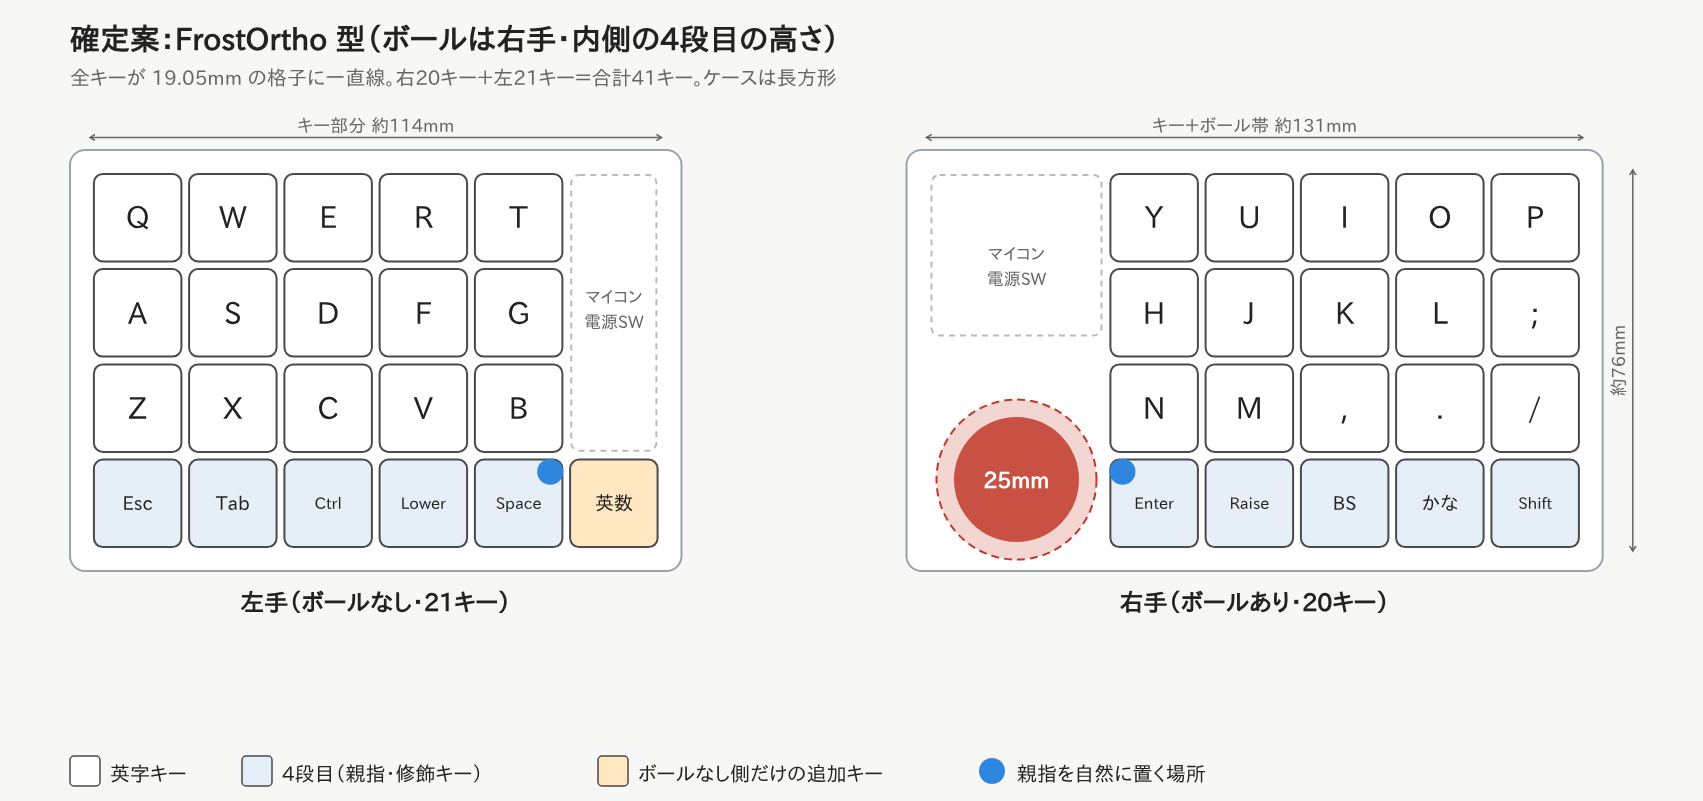
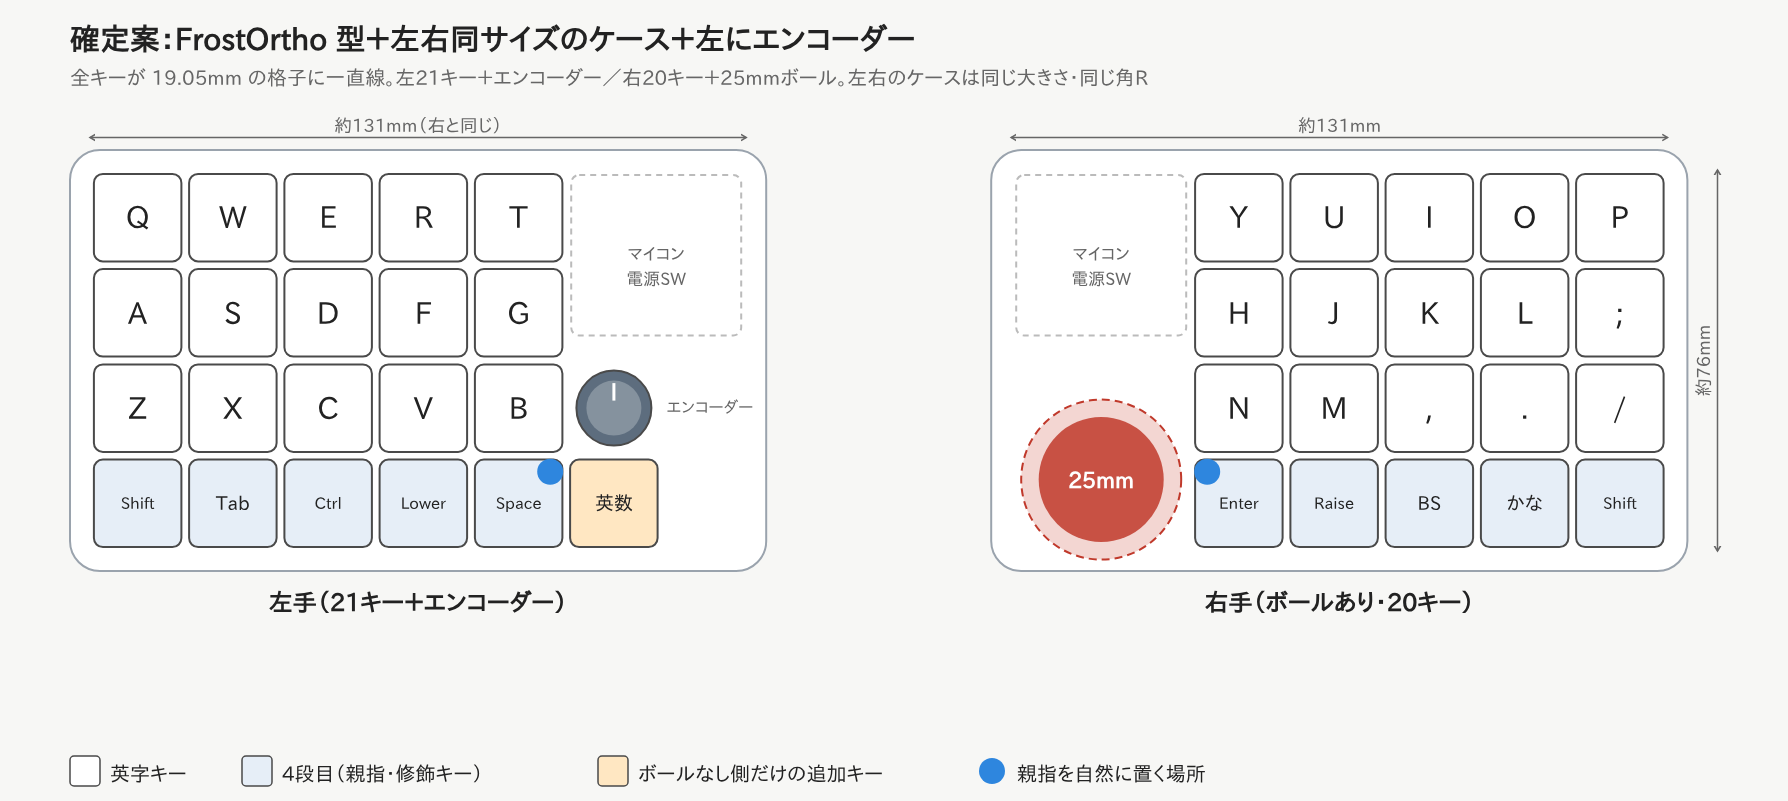
Add left rotary encoder and make both cases the same size
- EC11 encoder on the left half (A=D0, B=D1, push switch at ROW2/COL5).
  Turning controls volume (page up/down on Lower, brightness on Raise),
  pressing mutes.
- Both halves now share the same outer size and corner radius; the left
  inner strip holds the controller, encoder and the extra key.
- Update layout image and README, including the design policy.

Claude-Session: https://claude.ai/code/session_017zNm7dMSTHELcztuNr6aNy

diff --git a/tools/draw_layout.py b/tools/draw_layout.py
@@ -194,25 +194,24 @@ def plan_final():
     STRIP = 36.0          # ボール帯の幅 (受け皿約34mm + 余裕)
     WALL = 4.0            # ケースの縁 (目安)
     title_h = 30
-    lw = 6 * U
     rw = STRIP + 5 * U
+    lw = rw               # 左右のケースを同じ大きさにする
     w = MARGIN*2 + lw + GAP + rw + 2*WALL + 14
     h = title_h + 4*U + 2*WALL + 46
     svg = Svg(mm(w), mm(h))
-    svg.text(MARGIN, 10, "確定案：FrostOrtho 型（ボールは右手・内側の4段目の高さ）", 30, weight="bold")
-    svg.text(MARGIN, 17, "全キーが 19.05mm の格子に一直線。右20キー＋左21キー＝合計41キー。ケースは長方形", 20, color=C["sub"])
+    svg.text(MARGIN, 10, "確定案：FrostOrtho 型＋左右同サイズのケース＋左にエンコーダー", 30, weight="bold")
+    svg.text(MARGIN, 17, "全キーが 19.05mm の格子に一直線。左21キー＋エンコーダー／右20キー＋25mmボール。左右のケースは同じ大きさ・同じ角R", 20, color=C["sub"])
     oy = title_h + WALL
     lx = MARGIN + WALL
-    # ケース外形 (目安)
     def case(x, y, cw, ch):
         svg.add(f'<rect x="{mm(x-WALL):.1f}" y="{mm(y-WALL):.1f}" width="{mm(cw+2*WALL):.1f}" '
-                f'height="{mm(ch+2*WALL):.1f}" rx="{mm(3):.1f}" fill="#ffffff" stroke="#9aa3ad" stroke-width="2"/>')
+                f'height="{mm(ch+2*WALL):.1f}" rx="{mm(6):.1f}" fill="#ffffff" stroke="#9aa3ad" stroke-width="2"/>')
     case(lx, oy, lw, 4*U)
     rx = lx + lw + WALL + GAP + WALL
     case(rx, oy, rw, 4*U)
 
-    # 左手
-    LROW4 = ["Esc", "Tab", "Ctrl", "Lower", "Space"]
+    # 左手: 5x4 + 内側の帯 (4段目に英数キー、その上にエンコーダー、上部にマイコン)
+    LROW4 = ["Shift", "Tab", "Ctrl", "Lower", "Space"]
     for r in range(3):
         for c in range(5):
             svg.key(lx + c*U, oy + r*U, LEFT_ALPHA[r][c], C["alpha"])
@@ -220,11 +219,15 @@ def plan_final():
         svg.key(lx + c*U, oy + 3*U, LROW4[c], C["mod"])
     svg.key(lx + 5*U, oy + 3*U, "英数", C["extra"])
     svg.thumb(lx + 4*U, oy + 3*U)
-    # 左の内側帯: マイコン・電源スイッチ置き場
-    svg.add(f'<rect x="{mm(lx+5*U+1):.1f}" y="{mm(oy+1):.1f}" width="{mm(U-2):.1f}" height="{mm(3*U-2):.1f}" rx="8" '
+    ex, ey = lx + 5.5*U, oy + 2.5*U
+    svg.add(f'<circle cx="{mm(ex):.1f}" cy="{mm(ey):.1f}" r="{mm(7.5):.1f}" fill="#5d6d7e" stroke="{C["stroke"]}" stroke-width="2"/>')
+    svg.add(f'<circle cx="{mm(ex):.1f}" cy="{mm(ey):.1f}" r="{mm(5.5):.1f}" fill="#85929e"/>')
+    svg.add(f'<line x1="{mm(ex):.1f}" y1="{mm(ey-5):.1f}" x2="{mm(ex):.1f}" y2="{mm(ey-1.5):.1f}" stroke="#fff" stroke-width="3"/>')
+    svg.text(lx + 6*U + 1, ey + 1, "エンコーダー", 16, "start", C["sub"])
+    svg.add(f'<rect x="{mm(lx+5*U+1):.1f}" y="{mm(oy+1):.1f}" width="{mm(STRIP-2):.1f}" height="{mm(2*U-6):.1f}" rx="8" '
             f'fill="none" stroke="{C["empty"]}" stroke-width="2" stroke-dasharray="6 5"/>')
-    svg.text(lx + 5.5*U, oy + 1.4*U, "マイコン", 17, "middle", C["sub"])
-    svg.text(lx + 5.5*U, oy + 1.4*U + 5, "電源SW", 17, "middle", C["sub"])
+    svg.text(lx + 5*U + STRIP/2, oy + U - 1, "マイコン", 17, "middle", C["sub"])
+    svg.text(lx + 5*U + STRIP/2, oy + U + 4, "電源SW", 17, "middle", C["sub"])
 
     # 右手: 内側にボール帯
     gx = rx + STRIP
@@ -241,10 +244,10 @@ def plan_final():
     svg.text(rx + STRIP/2, oy + U + 4, "電源SW", 17, "middle", C["sub"])
     svg.ball(rx + STRIP/2, oy + 3.25*U)
 
-    svg.text(lx + 3*U, oy + 4*U + WALL + 8, "左手（ボールなし・21キー）", 24, "middle", weight="bold")
+    svg.text(lx + lw/2, oy + 4*U + WALL + 8, "左手（21キー＋エンコーダー）", 24, "middle", weight="bold")
     svg.text(rx + rw/2, oy + 4*U + WALL + 8, "右手（ボールあり・20キー）", 24, "middle", weight="bold")
-    svg.dim_h(lx, lx + lw, oy - WALL - 2.5, "キー部分 約114mm")
-    svg.dim_h(rx, rx + rw, oy - WALL - 2.5, "キー＋ボール帯 約131mm")
+    svg.dim_h(lx, lx + lw, oy - WALL - 2.5, "約131mm（右と同じ）")
+    svg.dim_h(rx, rx + rw, oy - WALL - 2.5, "約131mm")
     svg.dim_v(rx + rw + WALL + 6, oy, oy + 4*U, "約76mm")
     legend(svg, MARGIN, h - 9)
     return svg.render()

diff --git a/README.md b/README.md
@@ -34,14 +34,22 @@
 | 項目 | 内容 |
 | --- | --- |
 | 配列 | オーソリニア。片手 5列 × 4段、左手だけ4段目の内側に1キー追加 → **合計41キー**（左21・右20） |
+| エンコーダー | **左手**の内側（英数キーの上）。回す＋押し込みスイッチ付き。ロープロファイル（薄型）推奨 |
 | キー間隔 | 19.05mm（MX と同じ） |
 | スイッチ | **MX / Choc（ロープロファイル）両対応・ソケット式** |
 | トラックボール | **右手に固定**。25mm ボール、センサー PMW3610。右手の内側、4段目の高さ（FrostOrtho と同じ考え方） |
 | ボールケース | 専用ケース。**ベアリング3個で支える方式**、PMW3610 基板は**ケースの底面**に上向きで置く |
-| 基板・ケース | 左右別々に作る |
+| 基板・ケース | 左右別々に作る。**ケースは左右同じ大きさ・同じ角の丸み**（約131 × 76mm ＋ 縁） |
 | 接続 | 左右とも完全無線（Bluetooth）。PC とは**右手側**がつながる |
 | マイコン | ProMicro nRF52840 互換（nice!nano v2 など） × 2 |
 | 電源 | リチウムポリマー電池（左右に1個ずつ） |
+
+### デザインの方針（DRESSTHING を参考に）
+
+- **左右を同じ大きさ・同じ角の丸みの長方形**にして、並べたときに1つの道具に見えるようにする
+- 内側の帯は左右で対になる：右は「マイコン＋ボール」、左は「マイコン＋エンコーダー＋英数キー」
+- **ケースとプレートは着せ替えできる作り**にする（MX用/Choc用プレートの交換、色違いケースなど）
+- 飾りは足さず、面取り・角の丸み・素材の色で整える
 
 ### トラックボールケースのイメージ
 
@@ -103,8 +111,17 @@
 
 右手側は列の並びが左右反転していて、5列だけ使います（内側から D14, D15, D18, D19, D20。D21 は使わない）。
 
-- 左手：5列 × 4段 ＋ 4段目の内側に1キー（COL5 × ROW3）＝ 21キー
+- 左手：5列 × 4段 ＋ 4段目の内側に1キー（COL5 × ROW3）＝ 21キー ＋ エンコーダー押し込み（COL5 × ROW2）
 - 右手：5列 × 4段 ＝ 20キー
+
+### ロータリーエンコーダー（左手のみ）
+
+| エンコーダー側 | ProMicro 側 | 備考 |
+| --- | --- | --- |
+| A | D0 | |
+| B | D1 | |
+| C（共通） | GND | |
+| 押し込みスイッチ | ROW2 × COL5 | 普通のキーと同じくダイオードを付けてマトリックスにつなぐ |
 
 ### トラックボールセンサー PMW3610（右手のみ）
 
@@ -155,7 +172,8 @@ zisaku/
     ├── Kconfig.shield                … シールド名の登録
     ├── Kconfig.defconfig             … 右手がセントラル、分割、トラックボール有効 など
     ├── kataware.dtsi                 … 左右共通：マトリックス、行ピン
-    ├── kataware_left.overlay         … 左手：列ピン
+    ├── kataware_left.overlay         … 左手：列ピン、エンコーダー有効化
+    ├── kataware_left.conf            … 左手：エンコーダーの設定
     ├── kataware_right.overlay        … 右手：列ピン
     ├── kataware_trackball.overlay    … トラックボール（右手と一緒にビルド）
     ├── kataware-layout.dtsi          … キーの見た目上の位置
@@ -205,13 +223,14 @@ zisaku/
 ```
  Q    W    E    R     T                  Y     U     I    O    P
  A    S    D    F     G                  H     J     K    L    ;
- Z    X    C    V     B             ●    N     M     ,    .    /
+ Z    X    C    V     B    (◎)      ●    N     M     ,    .    /
  Sft  Tab  Ctl  Lower Space 英数        Enter Raise BS   かな  Sft
 ```
 
 - **Ctl**：タップで Esc、長押しで Ctrl
 - **英数**：タップで 英数、長押しで GUI（Windows キー / Mac の Command）
 - **かな**：タップで かな、長押しで Alt（Mac の Option）
+- **◎ エンコーダー**：回すと音量（Lower 中はページ送り、Raise 中は画面の明るさ）、押すとミュート
 
 | レイヤー | 入り方 | 内容 |
 | --- | --- | --- |
@@ -265,7 +284,7 @@ Bluetooth に表示される名前は `Kconfig.defconfig` の `ZMK_KEYBOARD_NAME
 ## 9. 次にやること（ハードウェア）
 
 1. **部品を決めて買う**：ProMicro nRF52840 互換 ×2、PMW3610 ブレイクアウト、25mm ボール、
-   ボール支持用ベアリング ×3、キースイッチ ×41、ホットスワップソケット（MX用 or Choc用）×41、ダイオード（1N4148 など）×41、電池 ×2、電源スイッチ ×2、リセットスイッチ ×2
+   ボール支持用ベアリング ×3、ロータリーエンコーダー（押し込み付き・薄型）×1、キースイッチ ×41、ホットスワップソケット（MX用 or Choc用）×41、ダイオード（1N4148 など）×42、電池 ×2、電源スイッチ ×2、リセットスイッチ ×2
 2. **キー配置を決める**：[Keyboard Layout Editor](http://www.keyboard-layout-editor.com/) や
    [Ergogen](https://ergogen.xyz/) で配置を決める（Ergogen は配置から基板の下書きまで作れます）
 3. **基板設計**：[KiCad](https://www.kicad.org/) で回路図 → 基板。上の配線表どおりにつなぐ
